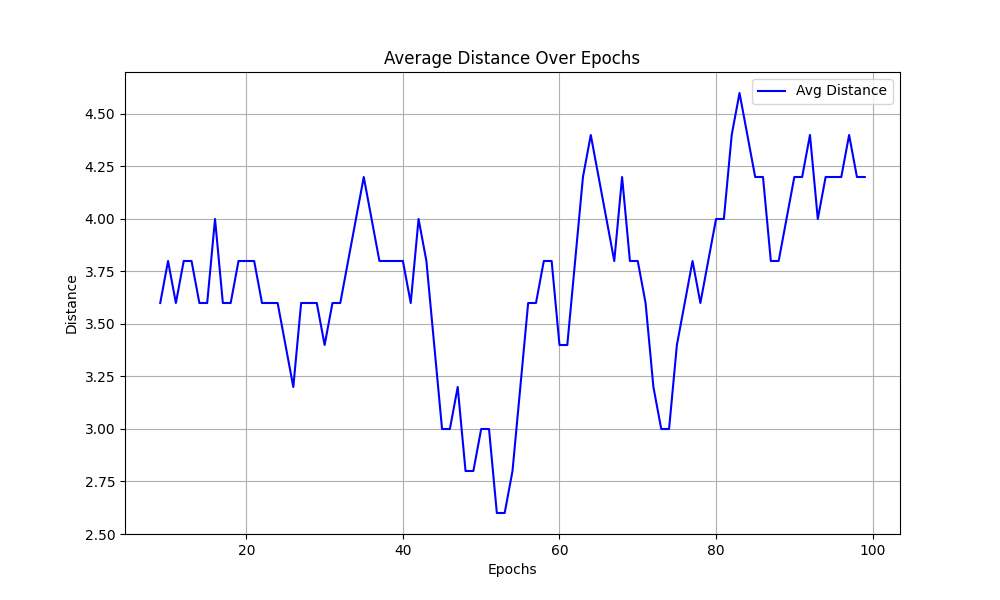
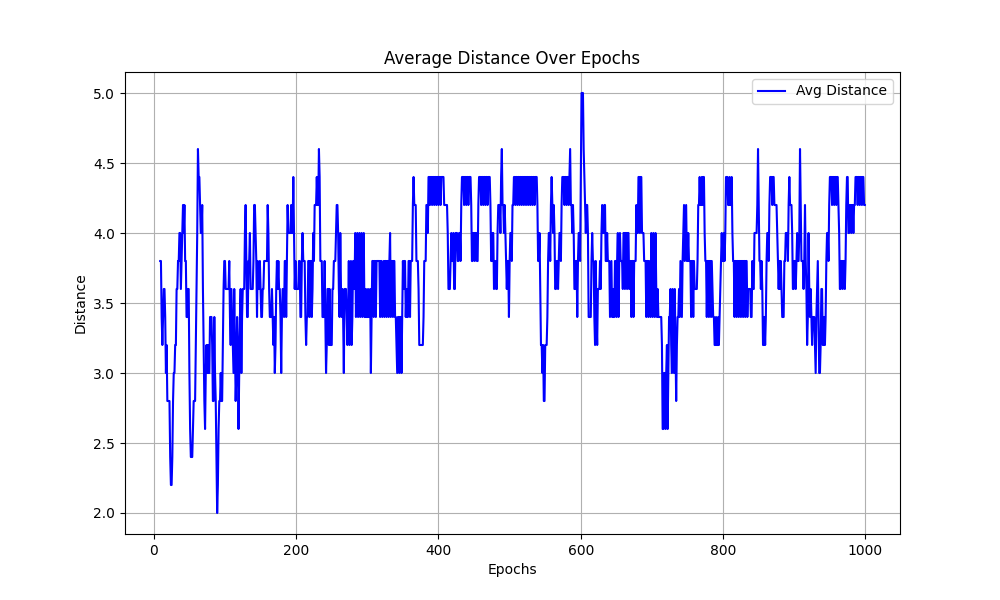
preformance tweaks

diff --git a/src/main_intermediate_track.py b/src/main_intermediate_track.py
@@ -24,22 +24,26 @@ def VQC(theta):
     return qml.probs(wires=[0, 1])
 
 # Only keep 3 states out of the max of 4 with 2 qubits
+# Third state is probability of 3rd or 4th state, but since there is no 4th state, this function essentially ignores it
 def map_VQC_results(theta):
     probs = VQC(theta)
     return np.array([probs[0], probs[1], probs[2] + probs[3]])
 
-# Mean Squared Error Loss Function
+# Mean Squared Error Loss Function:
+# MSE instead of simple subtraction ensures that larger differences are punished significantly
 def square_loss(X, Y):
     return np.mean((X - Y) ** 2) 
 
-# Cost function
+# Cost function:
+# Caluclates the difference between the VQC output (first param of square_loss), and target probability distribution (p_target)
 def cost(theta, p_target):
     return square_loss(map_VQC_results(theta), p_target)
 
-# Optimizer
+# Optimizer for update function
 opt = qml.GradientDescentOptimizer(stepsize=0.01)
 
-# Training Function
+# Training Function:
+# Specifically, update and optimize theta, the value we give to our VQC.
 def update(theta, p_target):
     for _ in range(100): 
         theta = opt.step(lambda v: cost(v, p_target), theta)
@@ -48,43 +52,50 @@ def update(theta, p_target):
 # Q-learning parameters
 alpha_values = [0.1]
 gamma_values = [0.9]
-epsilon_values = [0.3]
-epoch_values = [100]
+
+epsilon_values = [1.0] # Epsilon starts at 1.0, decays overtime
+epsilon_end = 0.10   # Minimum exploration rate
+decay_rate = 0.995   # How fast epsilon decreases
+
+epoch_values = [1000]
 results = []
-mode = "Random"
+mode = "QRL"
 
 for alpha, gamma, epsilon, epochs in itertools.product(alpha_values, gamma_values, epsilon_values, epoch_values):
     print(f"Running with alpha={alpha}, gamma={gamma}, epsilon={epsilon}, epochs={epochs}")
 
-    # Initialize Q-values and quantum model parameters
-    theta_train1 = np.random.randn(10) 
-    theta_train2 = np.random.randn(10)  
+    # Trainable parameters, 4 random values to start to be given to the 4 gates of the 2-qubit VQC
+    theta_train1 = np.random.randn(4) 
+    theta_train2 = np.random.randn(4)  
+
+    # Q-Table with values corresponding to each of the 3 states. These are updated over iterations via. Bellman's equation
     train1_Q = [0, 0, 0]
     train2_Q = [0, 0, 0]
-    distances = np.zeros(epochs)
 
-    # Store probabilities for graphs
-    M_loop = np.zeros(epochs)      
-    M_bypass = np.zeros(epochs)    
-    M_outerLoop = np.zeros(epochs) 
-
-    A_loop = np.zeros(epochs)
-    A_bypass = np.zeros(epochs)
-    A_outerLoop = np.zeros(epochs)
-
-    distances = np.zeros(epochs)
-    # Initialize track and trains
+    # Initialize the track and trains
     track = IntermediateTrack()
     train1 = Train(track, start_position=0)
     train2 = Train(track, start_position=7)
 
     previous_distance = calculate_distance(train1, train2, track)
 
+
+    # Arrays to store data to be graphed.
+    distances = np.zeros(epochs)
+    M_loop = np.zeros(epochs)      
+    M_bypass = np.zeros(epochs)    
+    M_outerLoop = np.zeros(epochs) 
+    A_loop = np.zeros(epochs)
+    A_bypass = np.zeros(epochs)
+    A_outerLoop = np.zeros(epochs)
+
+
+    # Training loop
     for i in range(epochs):
-        # print(f"Epoch: {i}")
+        print(f"Epoch: {i}")
 
         # Epsilon-greedy action selection for Train 1
-        # randomly pick choice, unless epsilon is higher, in which case pick what was learned
+        # randomly choose to explore, or to use the Q-table based on epsilon.
         if np.random.rand() < epsilon:
             a_train1 = np.random.randint(3)  # Randomly pick 0, 1, or 2
             a_train2 = np.random.randint(3)
@@ -92,6 +103,7 @@ for alpha, gamma, epsilon, epochs in itertools.product(alpha_values, gamma_value
             a_train1 = np.argmax(train1_Q)  # Choose best action from Q-table
             a_train2 = np.argmax(train2_Q)
 
+        epsilon = max(epsilon_end, epsilon * decay_rate)
         
         if mode == "QRL":
             current_distance = simulate_train_loop_qrl(train1, train2, track, a_train1, a_train2)
@@ -99,8 +111,6 @@ for alpha, gamma, epsilon, epochs in itertools.product(alpha_values, gamma_value
             current_distance = simulate_train_loop_random(train1, train2, track, a_train1)
         else:
             current_distance = simulate_train_loop_predictable(train1, train2, track, a_train1)
-
-        
 
         # Simulate train movement and get reward
         distances[i] = current_distance
@@ -113,8 +123,8 @@ for alpha, gamma, epsilon, epochs in itertools.product(alpha_values, gamma_value
             train1_reward = -1
             train2_reward = +1
         else:
-            train1_reward = 0
-            train2_reward = 0
+            train1_reward = -1
+            train2_reward = -1
 
         # Update Q-values using Bellman's equation
         train1_Q[a_train1] = train1_Q[a_train1] + alpha * (train1_reward + gamma * max(train1_Q) - train1_Q[a_train1])
@@ -131,9 +141,6 @@ for alpha, gamma, epsilon, epochs in itertools.product(alpha_values, gamma_value
             p_train1_loop = 1 / 3
             p_train1_bypass = 1 / 3
             p_train1_outerLoop = 1 / 3
-
-        # DEBUG: Print target probabilities for Train 1
-        # print(f"Target probabilities for Train 1,  Loop: {p_train1_loop}, Bypass: {p_train1_bypass}, Outer Loop: {p_train1_outerLoop}")
 
         # Update the quantum model based on the target probabilities
         theta_train1 = update(theta_train1, [p_train1_loop, p_train1_bypass, p_train1_outerLoop])

diff --git a/src/main.py b/src/main.py
@@ -45,7 +45,11 @@ def update(theta, p):
 
 alpha_values = [0.1]
 gamma_values = [0.9]
-epsilon_values = [0.1]
+
+epsilon_values = [1.0] # Epsilon starts at 1.0, decays overtime
+epsilon_end = 0.10   # Minimum exploration rate
+decay_rate = 0.995   # How fast epsilon decreases
+
 epoch_values = [100]
 
 results = []
@@ -119,6 +123,7 @@ for alpha, gamma, epsilon, epochs in itertools.product(alpha_values, gamma_value
         else:
             current_distance = simulate_train_loop_predictable(train1, train2, track, take_bypass_train1)
         
+        epsilon = max(epsilon_end, epsilon * decay_rate)
         distances[i] = current_distance
 
         if current_distance > previous_distance:
